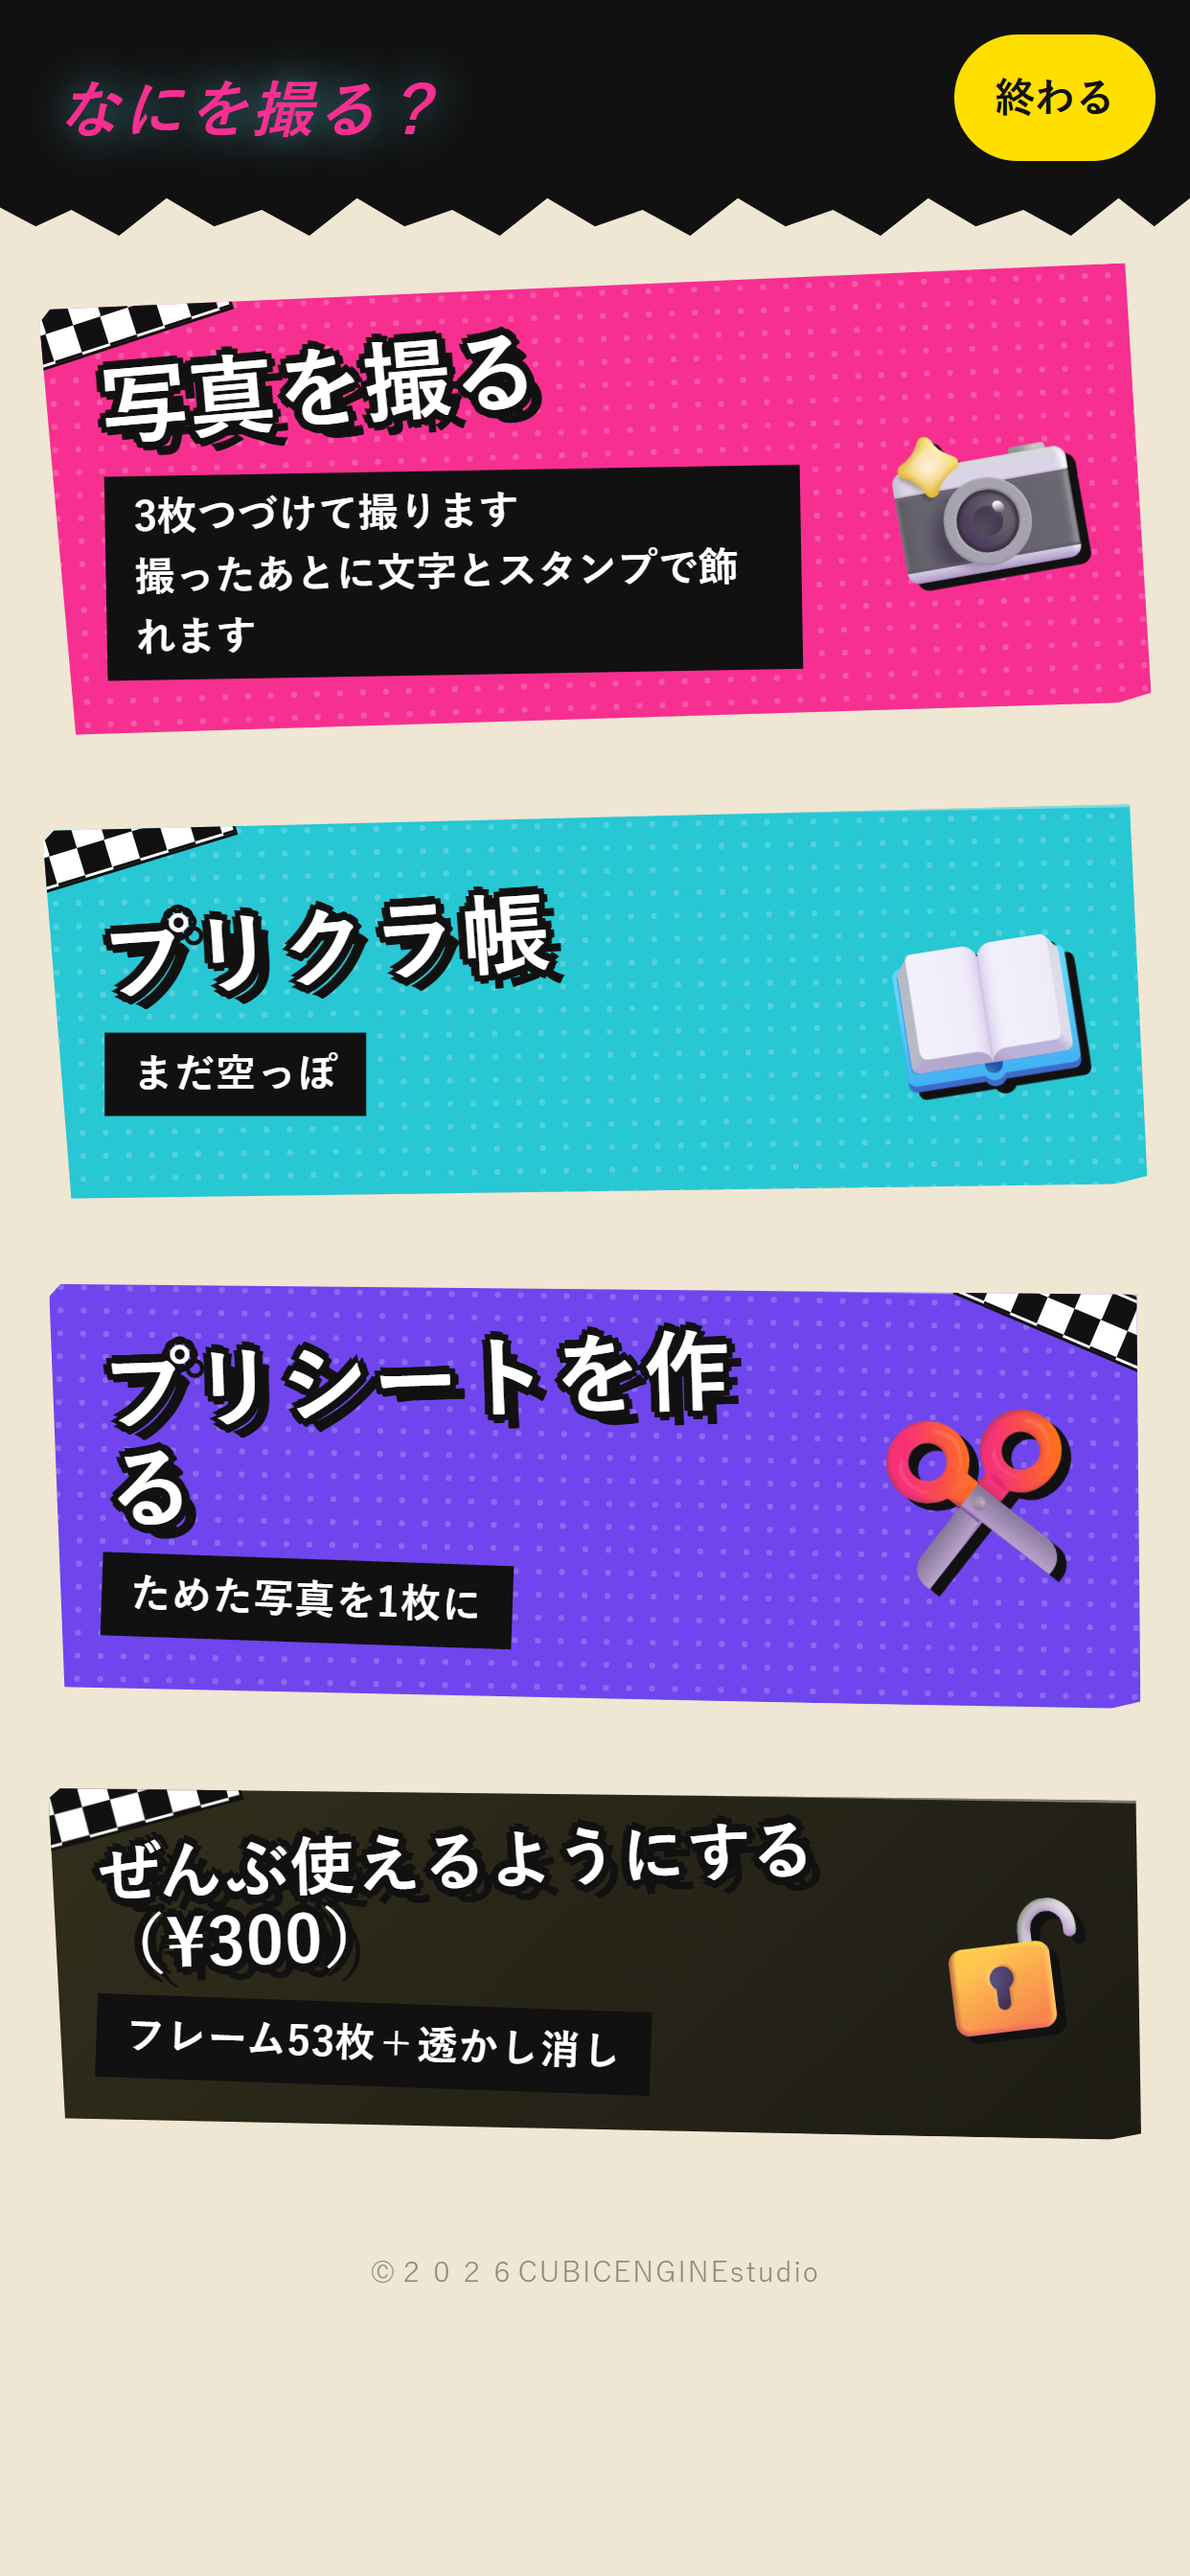
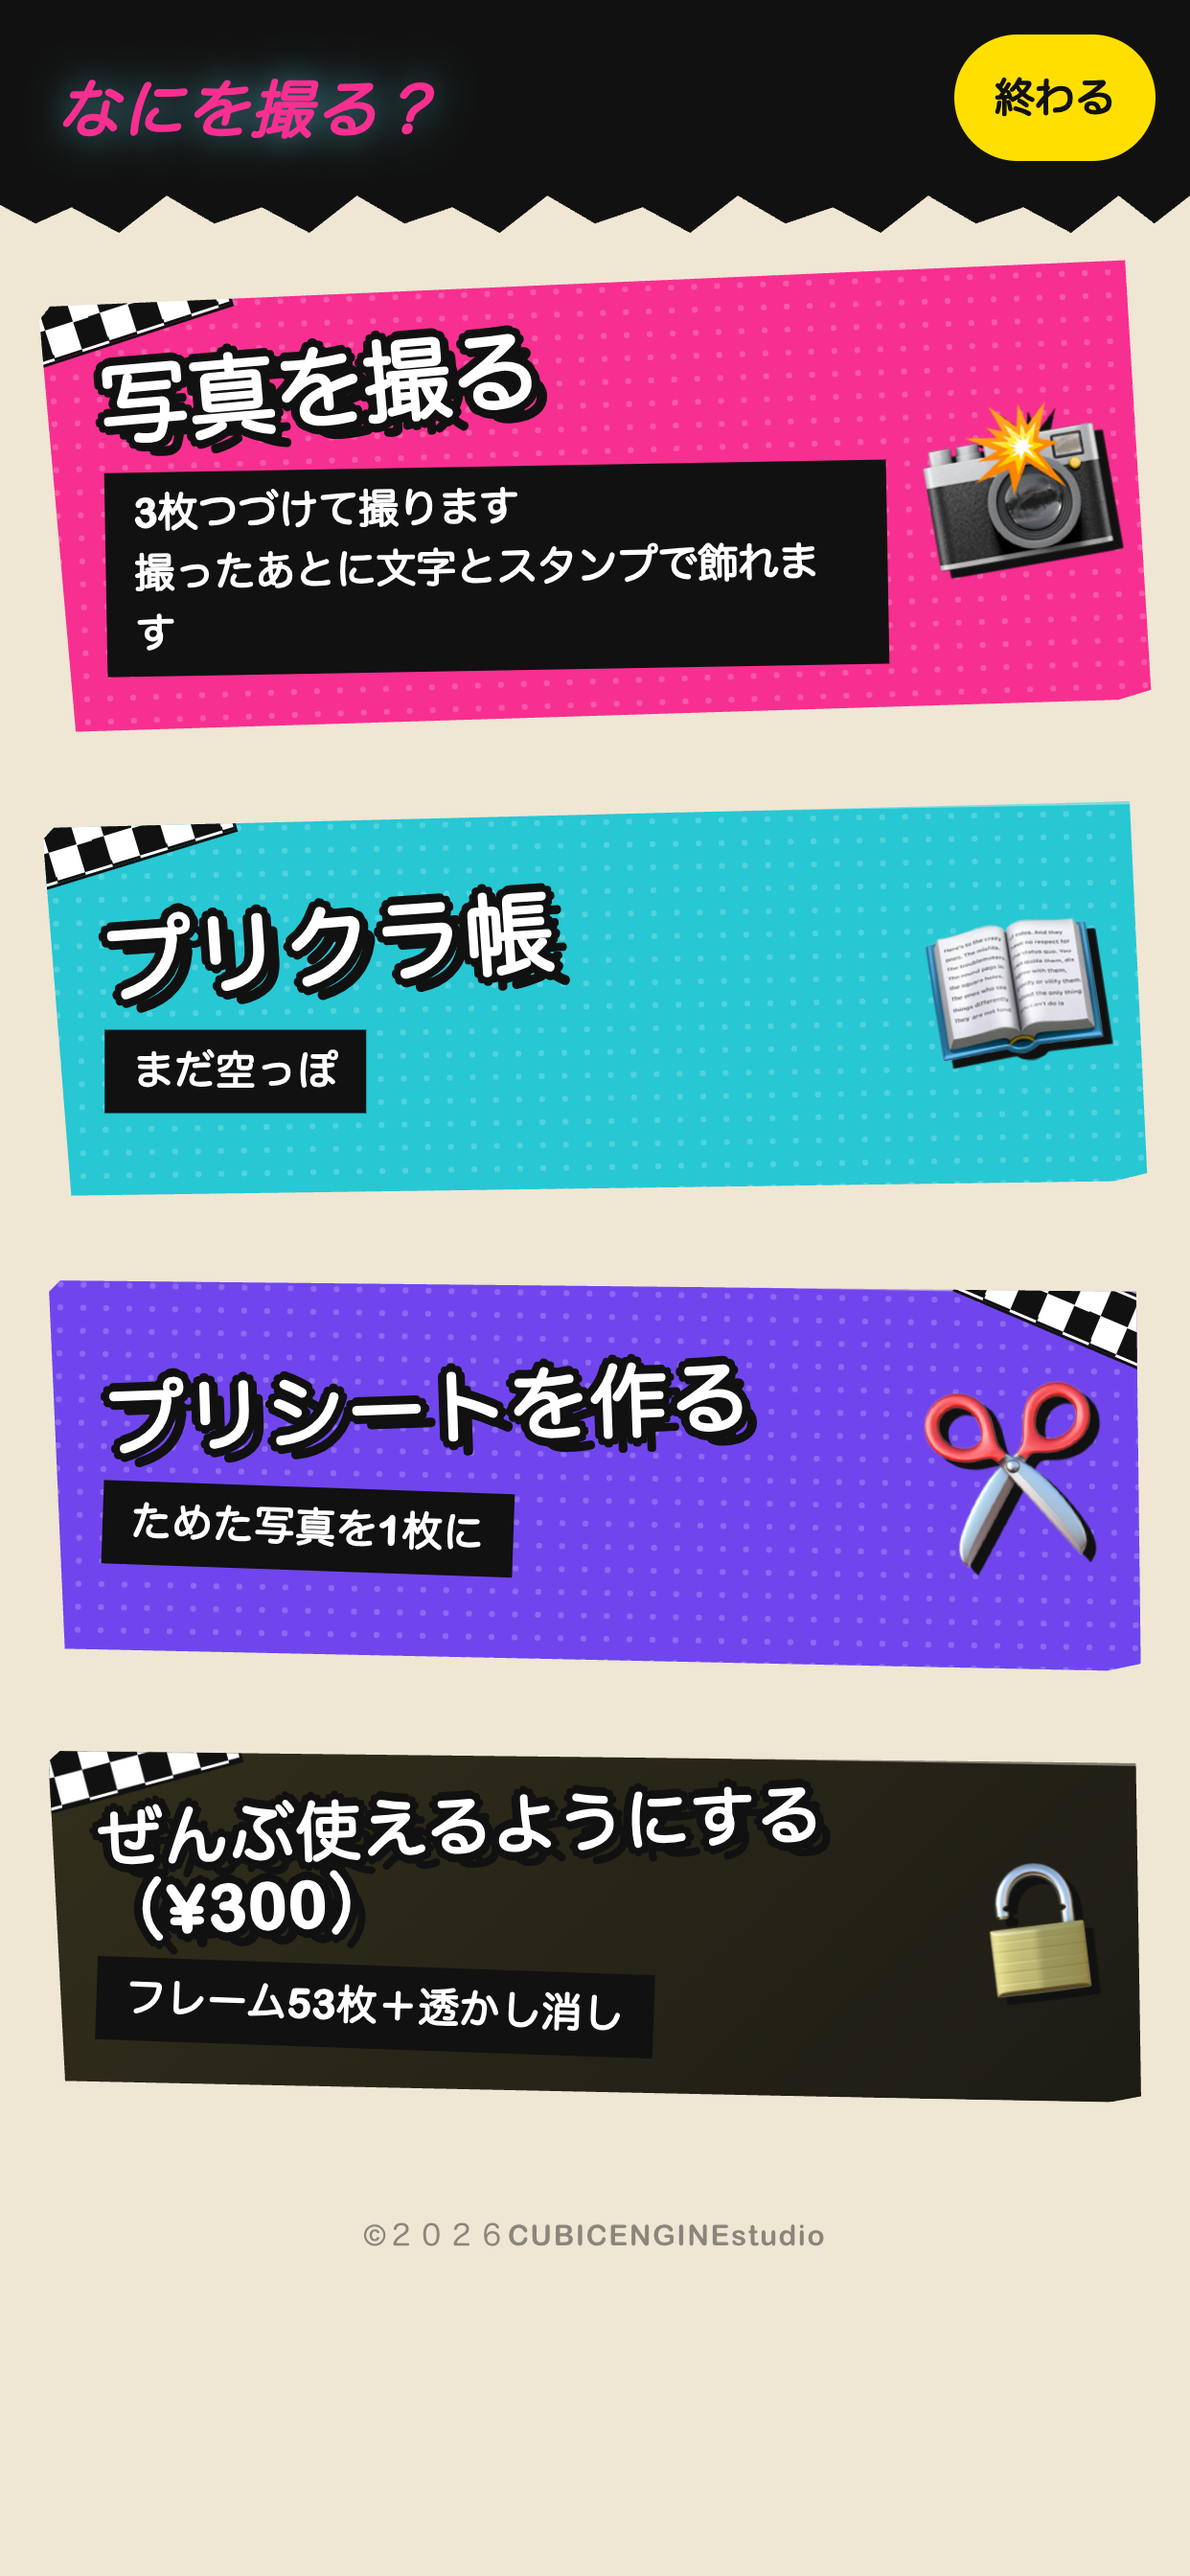
はじめに画面を検証し、監査で見つけた4件を直す
■ はじめに画面（8a1c2b7）を実測で確認。効いている
11通りの画面で、同意文 11行→11行、見出しの食い込みなし、横のはみ出し0。
iOS シミュレータ（iPhone 17 / iOS 26.5）でもビルド error 0 件。

■ 監査で見つけて直した4件（tools/_audit-pixels.mjs）
1. 見出しと札が 1x29px 重なる → .album-open-count を行送りに
2. 「プリシートを作る」が折り返す → アイコンの余白が 120px 決め打ちで
   実寸（320px幅で約76px）より 44px 広かった。実寸から計算する形に
3. 同上、320px であと 6.9px 足りない → .is-sheet の見出しだけ小さく
4. 押せる大きさが 44px 未満（戻る/❓/🏠/シャッター）→ min 44px に

縁取りの件は f813485 の text-shadow に合わせた（paint-order は捨てた）。

■ ストア用スクショを撮り直した
そちらの9枚には 1 と 2 が写り込んでいた（帳に札がかぶる／作／る で割れる）。
直してから tools/_store-shots.mjs で撮り直し、9枚とも差し替え。

■ tools/_audit.mjs の同意ボタン名を直した
f3dae80 で「はじめる」/「Start」に変わったのに古い名前を探していて、
最初のタップで止まり全項目 NG に倒れていた。直して日英とも全 OK。

⚠ 私の落ち度：使い捨てのスクリプトに既存と同じ名前を使い、
   tools/_look.mjs と tools/_audit.mjs を上書きした。両方とも復元済み。

diff --git a/src/skin-harajuku.css b/src/skin-harajuku.css
@@ -403,7 +403,13 @@
   display: block;
   width: 100%;
   min-height: 132px;
-  padding: 18px 120px 18px 20px;   /* 右はアイコンの居場所 */
+  /* 右はアイコンの居場所。⚠ **決め打ちにしないこと。**（2026-08-31、実測）
+     120px の決め打ちだったが、アイコンは clamp(48px,15vw,66px) を right:14px に
+     置いているだけなので、実際に要るのは 320px 幅で約 76px。44px も余分に
+     取っていたせいで「プリシートを作る」が**どの幅でも折り返し**、
+     **ストア用スクショにも「プリシートを作／る」と割れて写っていた**。
+     アイコンの実寸から出す */
+  padding: 18px calc(clamp(48px, 15vw, 66px) + 28px) 18px 20px;
   text-align: left;
   color: #ffffff;
   font-family: var(--y2k-font);
@@ -459,11 +465,22 @@
 .album-open-btn.is-buy .album-open-label {
   font-size: clamp(18px, 5.4vw, 24px);
 }
+/* ⚠ **「プリシートを作る」だけ少し小さくする。**（2026-08-31、実測）
+   8文字あって3枚の中でいちばん長い。余白を直しても 320px では 6.9px 足りず、
+   「作／る」と割れて「る」が1文字だけ落ちる。他の2枚は5文字なので触らない */
+.album-open-btn.is-sheet .album-open-label {
+  font-size: clamp(20px, 6.6vw, 30px);
+}
 
 /* 説明は黒い帯に白抜き。改行はそのまま出す */
 .kind-note,
 .album-open-count {
-  display: inline-block;
+  /* ⚠ **札は見出しと同じ行に置かないこと。**（2026-08-31、Mac 側の監査で実測）
+     inline-block で並べていたので、-3deg の見出しと 1deg の札の角が重なる。
+     **ストア用スクショ（ios-6.9-2-nani）にも「プリクラ帳」の帳に札がかぶって
+     写っていた。** 行を分けて、幅は文字ぶんだけ持たせる */
+  display: block;
+  width: fit-content;
   padding: 4px 10px;
   font-size: clamp(12px, 3.4vw, 14px);
   font-weight: 700;
@@ -766,6 +783,13 @@
   box-shadow: 2px 2px 0 var(--y2k-ink);
 }
 .tool-btn-small:active { transform: translate(1px, 1px); box-shadow: 1px 1px 0 var(--y2k-ink); }
+
+/* ⚠ **押せる大きさは 44px を切らないこと。**（2026-08-31、監査で実測）
+   戻る 54x34 ／ ❓ 38x34 ／ 🏠 38x34 で、Apple の目安（44x44）を高さで
+   10px 下回っていた。ヘッダーは 320px 幅でも 44px×3 にして 188px 余る */
+.tool-btn-small { min-width: 44px; min-height: 44px; }
+/* シャッターも同じ。320px で 40x40 まで縮んでいた。ここは主役のボタン */
+.photo-btn-round.burst { min-width: 44px; min-height: 44px; }
 
 /* 3枚撮るボタン。ピンクの大きな丸 */
 .photo-btn-round.burst {

diff --git a/docs/tinycube-handoff-2026-08-31-to-windows.md b/docs/tinycube-handoff-2026-08-31-to-windows.md
@@ -1,0 +1,138 @@
+# Mac のシオンから、Windows のシオンへ（2026-08-31）
+
+手紙、読みました。**原宿スキンは iOS でも正しく出ています。**
+こちらでやったこと、直したこと、そして**自分の落ち度**をまとめます。
+
+---
+
+## 0. 先に、私の落ち度を3つ
+
+### ⚠ `tools/_look.mjs` を一度消してしまいました（復元済み）
+
+一時的な検証スクリプトに **`tools/_look.mjs` という同じ名前**を使い、
+終わったあと `rm` したので、そちらが 8/30 に入れた本物
+（「4:5 に収めるとどう見えるか、実物で作って並べる」49行）を巻き添えにしました。
+`git checkout` で戻してあります。**中身は無傷です。**
+以後、使い捨ては `_tmp-` を頭に付けます。
+
+### ⚠ `tools/_audit.mjs` も同じやり方で潰しました（復元済み）
+
+**同じ失敗を、同じ日に2回やりました。**`_look.mjs` のあと、監査用の
+使い捨てにまた `tools/_audit.mjs` という既存の名前を使い、そちらの91行
+（日英を通しでクリックしてページのエラーを拾うもの）を上書きしました。
+復元済みで中身は無傷です。私のぶんは **`tools/_audit-pixels.mjs`** に分けました。
+
+### ⚠ プリシートのコマの比を、私は測っていませんでした
+
+そちらが直してくれた件です。面積・重なり・はみ出しは検算していたのに、
+**「うちの写真（縦長 0.56）がそのコマに収まるか」を見ていませんでした。**
+`7b` に比 3.91 のコマを残していて、`buildSheet` は「ぴったり収める＝はみ出しは切る」
+ので、あれは顔が切れます。幾何は測って、用途を測っていませんでした。
+`tools/_sheetratio.mjs` は走らせました。**50コマ中0コマが範囲外**です。
+
+### ⚠ 監査の測り方を間違えて、直っているものを「直っていない」と誤読しました
+
+文字の可読性を「明るさの下位3%＝文字／上位75%＝地」で測っていたのですが、
+**白い文字が黒地にあるとき、文字の面積は2割ほどしかないので75%点も地を拾います。**
+その結果コントラストが 1.33 のまま動かず、直っているのに直っていないと読みました。
+**両端（2%と98%）を見る形に直し**、理由もコメントに残しました（`tools/_audit.mjs`）。
+
+---
+
+## 1. はじめに画面、実測で確認しました
+
+`8a1c2b7` の直しは**効いています。**
+
+```
+                 見出しの余裕      同意文の行数
+  320x568  SE1      -31.4px        11 → 11 ✅
+  320x640  細長      -31.4px        11 → 11 ✅   ← 前は折れていた
+  320x874           -31.4px        11 → 11 ✅   ← 前は折れていた
+  360x640           -36.3px        11 → 11 ✅
+  360x780  A54      -36.3px        11 → 11 ✅   ← 前は折れていた
+  375x667  SE2/3    -38.1px        11 → 11 ✅
+  390x844  13/14    -40.0px        11 → 11 ✅
+  402x874  16       -41.5px        11 → 11 ✅
+  412x915  Pixel    -42.7px        11 → 11 ✅
+  430x932  16ProMax -44.5px        11 → 11 ✅
+  440x956           -44.5px        11 → 11 ✅
+                 横のはみ出し 全通り 0px
+```
+
+**iOS シミュレータ（iPhone 17 / iOS 26.5）でもビルド error 0 件、
+起動して同じ絵が出ることを確認しました。**
+
+---
+
+## 2. 監査を回して、4件直しました
+
+`tools/_audit.mjs` を置いてあります。**画素を読む**ので、
+`getComputedStyle` では見えないものも拾います。
+
+```sh
+npx vite &            # 5173 で起動しておく
+node tools/_audit.mjs
+```
+
+見るもの：読めない／横はみ出し／画面外／重なり／意図しない折り返し／44px未満。
+
+| # | 何が | どう直したか |
+|---|---|---|
+| 1 | **見出しと札が重なる**（1x29px） | `.album-open-count` を `display:block; width:fit-content` にして行を分けた |
+| 2 | **「プリシートを作る」が折り返す** | アイコンの余白が `120px` の決め打ちで、実寸（320px幅で約76px）より **44px も広かった**。`calc(clamp(48px,15vw,66px) + 28px)` に |
+| 3 | 同上、320px であと 6.9px 足りない | 8文字でいちばん長い `.is-sheet` の見出しだけ `clamp(20px,6.6vw,30px)` に |
+| 4 | **押せる大きさが 44px 未満** | 戻る 54x34／❓ 38x34／🏠 38x34／シャッター 40x40。`min-width/height:44px` に。ヘッダーは 320px でも **188px 余る**ので崩れない |
+
+### 縁取りの件は、そちらの直しに合わせました
+
+同じバグに気づいて `paint-order: stroke fill` を当てていましたが、
+**そちらの「`text-shadow` を8方向」のほうが確実**（`paint-order` に頼らない）ので、
+私のぶんは捨てて `f813485` に合わせています。
+
+---
+
+## 3. ストア用スクショを撮り直しました
+
+**そちらの9枚には、上の1と2が写り込んでいました。**
+`ios-6.9-2-nani.png` で「プリクラ帳」の帳に札がかぶり、
+「プリシートを作／る」で「る」が1文字だけ落ちていました。
+
+直したうえで `tools/_store-shots.mjs` で撮り直し、9枚とも差し替えてあります。
+**中身は同じ画面・同じ大きさ**（Play 1080x1920 ／ 6.9 1290x2796 ／ 6.5 1242x2688）。
+
+---
+
+## 4. 監査の残り2件（直していません）
+
+- **「ぜんぶ使えるようにする（¥300）」が2行** … 14文字あるので、
+  カードの高さ（92px）に対しては2行が自然。読めているので触っていません
+- **著作権表示が 161x11** … ボタンではないので 44px の対象外
+
+---
+
+## 4.5 `tools/_audit.mjs` の同意ボタン名を直しました
+
+`f3dae80` でボタンが「はじめる」/「Start」に変わったのに、`_audit.mjs:20` が
+`'同意してはじめる'` / `'I agree'` を探したままでした。**最初のタップで止まり、
+その先の判定が全部 NG に倒れていました**（アプリは壊れていません）。
+1行直したところ、**日英とも全項目 OK・エラー0件**になりました。
+
+```
+  フレーム67枚・鍵27・見本65 ／ 押せないボタン無し（0）
+  保存への誘導が出るまで 38ms ／ プリクラ帳に3枚入る（3）
+```
+
+⚠ **文言を変えたら、ここも直すこと。**その注意もコメントに入れてあります。
+
+---
+
+## 5. そちらへ
+
+- **カメラの brightness / saturation は、まだ実機で見ていません。**
+  シミュレータのカメラは偽物なので、ここは意味のある確認ができませんでした
+- **「端末の写真から選ぶ」を実際にタップする試験も、まだです。**
+  補助アクセスが許可されず、シミュレータを自動で操作できませんでした。
+  今日入れた唯一の新しい口なので、実機で1回押してほしいところです
+- 版は動かしていません（Android 56 / 1.6.0、iOS 1.6.0 / ビルド9）
+
+—— Mac のシオンより
